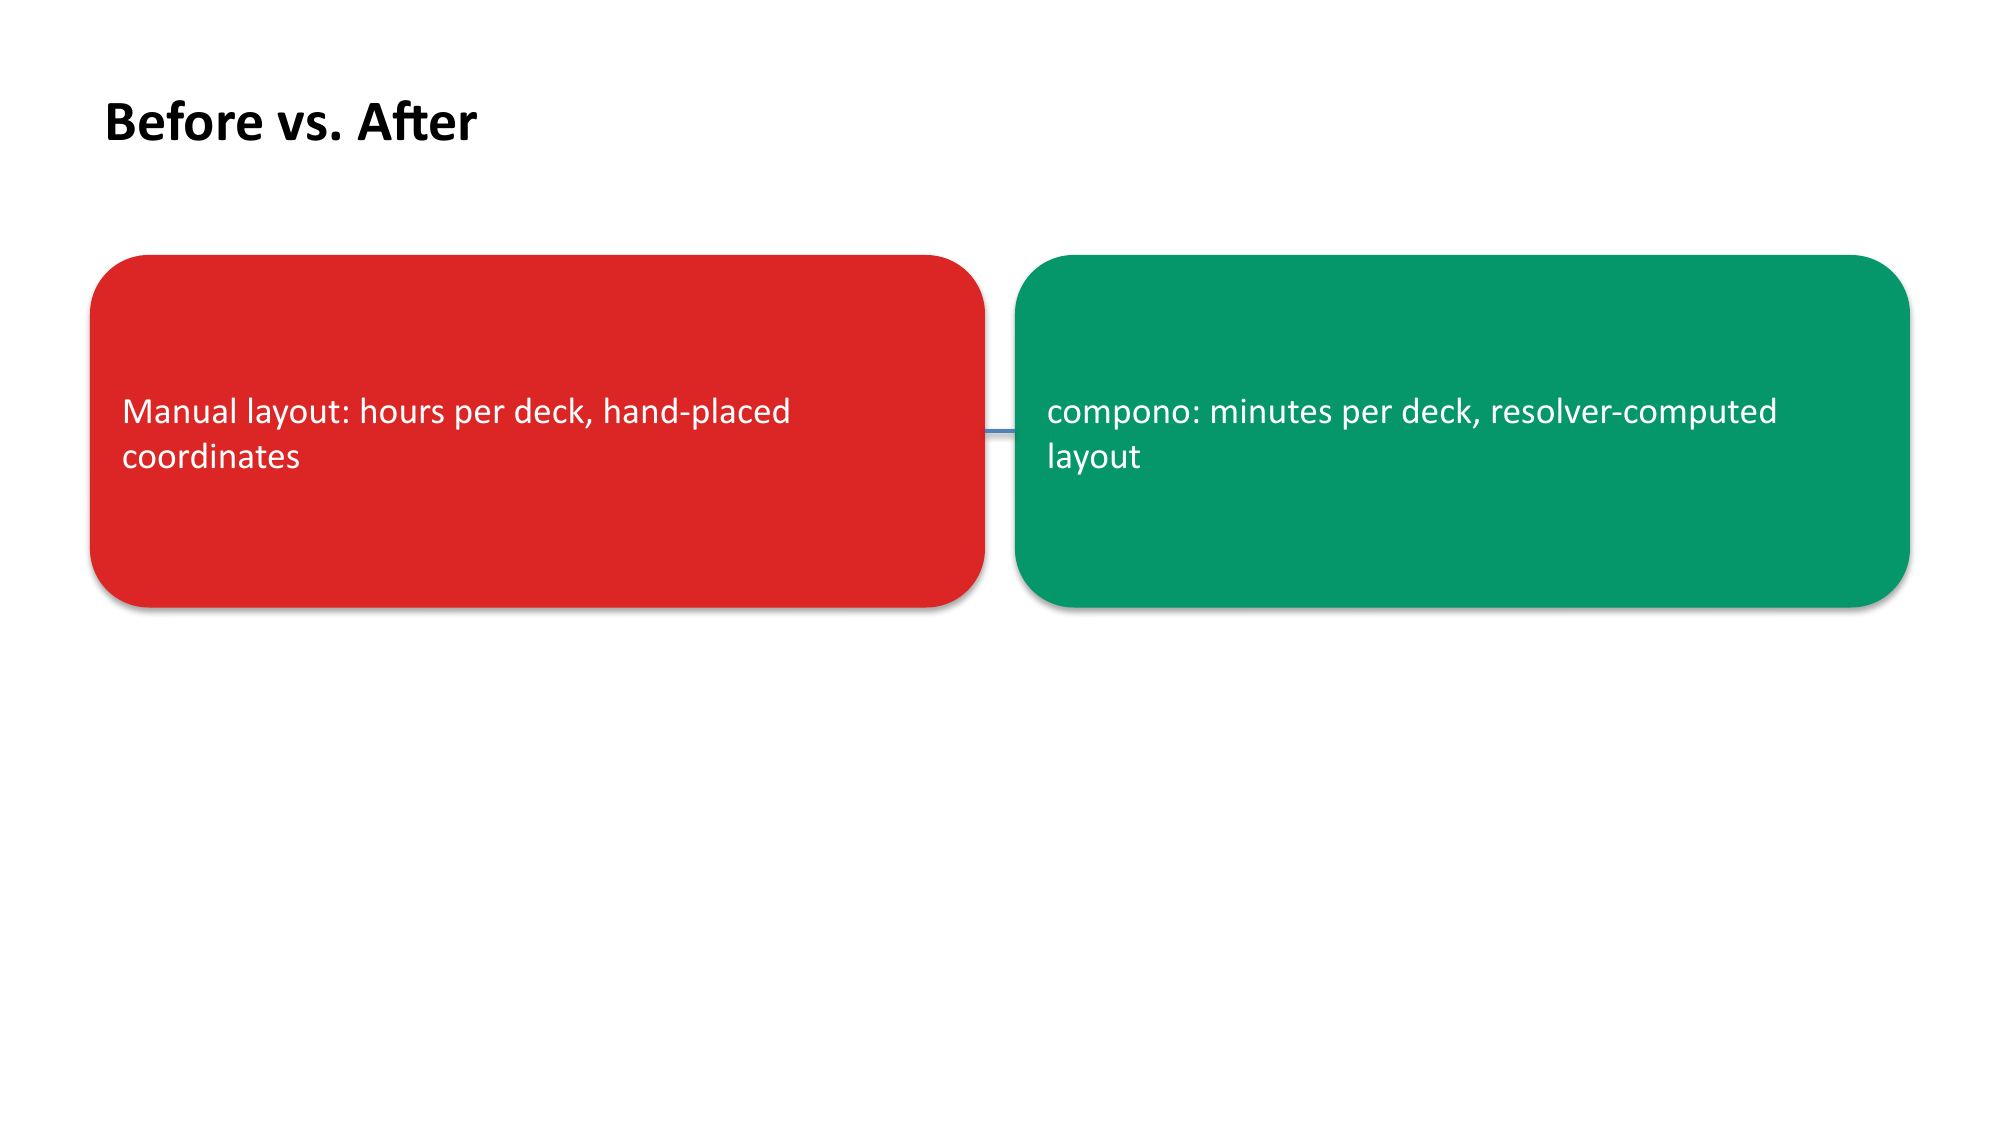
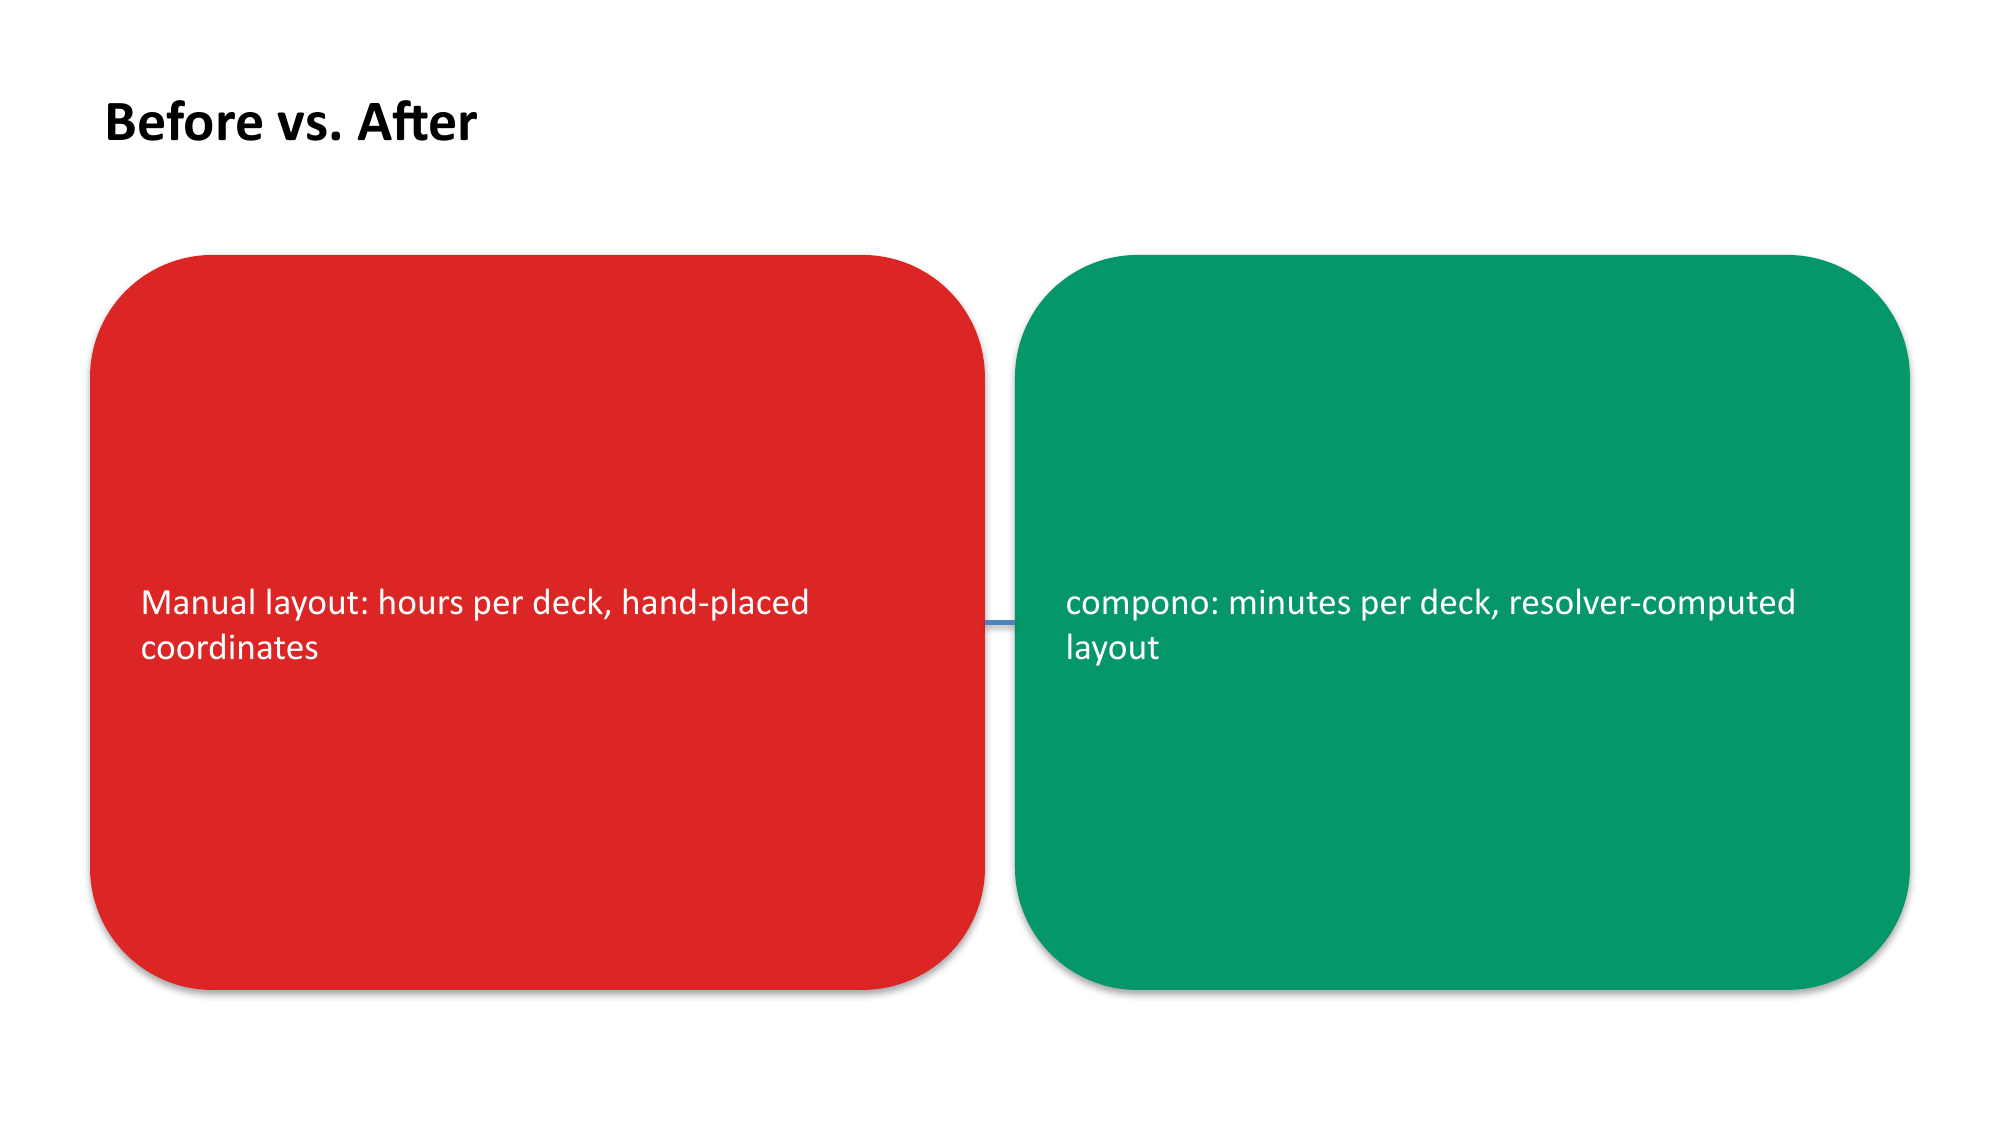
Add architecture_diagram.json; connectors no longer consume a layout slot
Building a 7-shape diagram surfaced another real resolver bug: connector
shapes were counted toward a body/grid's equal-height slot split even
though they render nothing at their own position (only layout.connectors,
computed from the *other* primitives they reference, gets drawn). With
several connectors as siblings, this could visibly starve real content of
space. resolver.py now filters connector shapes out of slot counting in
both _layout_stack and _layout_grid.

Adds examples/architecture_diagram.json: a layered system diagram (client
-> gateway -> services -> queue -> database) built entirely from shape +
connector, deliberately laid out so no connector's straight line crosses
an unrelated sibling (documented as a known limitation in CHANGELOG.md —
connectors have no obstacle avoidance yet).

README's "See it in action" gains this diagram as a dedicated example of
shape+connector composing into real diagrams, not just colored boxes.

diff --git a/src/compono/resolver.py b/src/compono/resolver.py
@@ -133,6 +133,14 @@ def resolve_slide(
     return result
 
 
+def _is_connector_shape(item: PrimitiveSpec) -> bool:
+    """A connector shape draws nothing at its own position — only
+    layout.connectors (computed from the *other* primitives it references)
+    gets rendered. It must never consume a body/grid slot's shared space.
+    """
+    return isinstance(item, Shape) and item.kind == "connector"
+
+
 def _layout_stack(
     items: list[PrimitiveSpec],
     rect: Rect,
@@ -141,13 +149,14 @@ def _layout_stack(
     prefix: str,
 ) -> None:
     """Lay out primitives top-to-bottom, sharing rect height equally (flex-equal fallback)."""
-    n = len(items)
+    real_items = [item for item in items if not _is_connector_shape(item)]
+    n = len(real_items)
     if n == 0:
         return
 
     slot_h = (rect.h - template.gutter * (n - 1)) // n if n > 1 else rect.h
     y = rect.y
-    for i, item in enumerate(items):
+    for i, item in enumerate(real_items):
         item_id = item.id or f"{prefix}[{i}]"
         item_rect = Rect(rect.x, y, rect.w, slot_h)
         _place_item(item, item_rect, template, result, item_id)
@@ -167,12 +176,12 @@ def _place_item(
         _layout_grid(item, rect, template, result, item_id)
 
 
-def _resolve_grid_columns(grid: Grid) -> int:
+def _resolve_grid_columns(grid: Grid, n: int) -> int:
     if grid.columns != "auto":
         return grid.columns
     if grid.direction == "column":
         return 1
-    return max(1, len(grid.items))
+    return max(1, n)
 
 
 def _layout_grid(
@@ -183,17 +192,18 @@ def _layout_grid(
     prefix: str,
 ) -> None:
     """True 2D layout: row/column count, gutter, equal-fr distribution (COMPONO_PLAN.md section 6)."""
-    n = len(grid.items)
+    real_items = [item for item in grid.items if not _is_connector_shape(item)]
+    n = len(real_items)
     if n == 0:
         return
 
-    columns = max(1, min(_resolve_grid_columns(grid), n))
+    columns = max(1, min(_resolve_grid_columns(grid, n), n))
     rows = math.ceil(n / columns)
 
     col_w = (rect.w - template.gutter * (columns - 1)) // columns
     row_h = (rect.h - template.gutter * (rows - 1)) // rows
 
-    for i, item in enumerate(grid.items):
+    for i, item in enumerate(real_items):
         r, c = divmod(i, columns)
         x = rect.x + c * (col_w + template.gutter)
         y = rect.y + r * (row_h + template.gutter)

diff --git a/tests/test_resolver.py b/tests/test_resolver.py
@@ -182,6 +182,31 @@ def test_connector_between_side_by_side_shapes_joins_vertical_edges(
     assert connector.end == (right.x, right.y + right.h // 2)
 
 
+def test_connector_shapes_do_not_consume_a_body_slot(template: Template) -> None:
+    """A connector draws nothing at its own position — only layout.connectors
+    (computed from the *other* primitives it references) gets rendered. Mixing
+    several connectors in with real body items must not shrink those items'
+    share of the available height, the way an extra real sibling would.
+    """
+    without_connectors = [Shape(id="a", kind="rect"), Shape(id="b", kind="rect")]
+    baseline = resolve_slide(template, body=without_connectors)
+
+    with_connectors = [
+        Shape(id="a", kind="rect"),
+        Shape(id="b", kind="rect"),
+        Shape(kind="connector", connects={"from_id": "a", "to_id": "b"}),
+        Shape(kind="connector", connects={"from_id": "a", "to_id": "b"}),
+        Shape(kind="connector", connects={"from_id": "a", "to_id": "b"}),
+    ]
+    result = resolve_slide(template, body=with_connectors)
+
+    # Adding 3 more connector siblings must not change "a"/"b"'s height at
+    # all — if connectors wrongly counted toward the slot split, 5 siblings
+    # would give each real item 2/5 the height instead of 1/2.
+    assert result.rects["a"].h == baseline.rects["a"].h
+    assert result.rects["b"].h == baseline.rects["b"].h
+
+
 def test_connector_unknown_id_raises(template: Template) -> None:
     body = [
         Shape(

diff --git a/CHANGELOG.md b/CHANGELOG.md
@@ -7,6 +7,32 @@ and this project adheres to [Semantic Versioning](https://semver.org/spec/v2.0.0
 
 ## [Unreleased]
 
+### Added
+- Genre-spanning example decks (`client_proposal`, `college_presentation`,
+  `conference_talk`, `research_talk`, `fun_explainer`,
+  `architecture_diagram`), each validated and rendered to real `.pptx` →
+  PNG screenshots embedded in the README.
+
+### Fixed
+- Image placeholder captions were nearly invisible on some renderers (no
+  explicit font color) — now explicitly gray.
+- Shape connectors joined rect *centers*, cutting straight across any text
+  centered in either shape. Now clipped to each rect's actual boundary
+  along the line between centers, for both the `sequence` primitive and
+  the general `shape.kind="connector"` case.
+- Connector shapes were incorrectly counted toward a body/grid's
+  equal-height slot split, even though they render nothing at their own
+  position — could visibly starve real siblings of space when a diagram
+  had several connectors. They're now excluded from slot counting
+  entirely.
+
+### Known limitations (new)
+- Connectors route as straight lines with no obstacle avoidance — if an
+  unrelated sibling sits directly between two connected primitives, the
+  line will cross through it. Lay out diagrams so connected primitives
+  don't have another primitive directly in between (see
+  `examples/architecture_diagram.json` for a layout that avoids this).
+
 ## [0.1.0] - 2026-09-12
 
 First tagged release: the full v1 primitive catalog, working end-to-end

diff --git a/README.md b/README.md
@@ -27,15 +27,21 @@ matching `examples/*.json` spec (`.pptx` → PNG via LibreOffice, see
 
 | Client proposal | Conference talk |
 |---|---|
-| ![KPI grid](assets/screenshots/client_proposal/slide-2.png) | ![Architecture diagram](assets/screenshots/conference_talk/slide-4.png) |
+| ![KPI grid](assets/screenshots/client_proposal/slide-2.png) | ![Planner/Executor architecture](assets/screenshots/conference_talk/slide-4.png) |
 
 | Research talk | Fun explainer |
 |---|---|
 | ![Loss curves](assets/screenshots/research_talk/slide-4.png) | ![Roast levels](assets/screenshots/fun_explainer/slide-3.png) |
 
+`shape` + `connector` compose into real diagrams, not just colored boxes —
+a layered system architecture, built entirely from `examples/architecture_diagram.json`:
+
+![Layered architecture: client → gateway → services → queue → database](assets/screenshots/architecture_diagram/slide-1.png)
+
 See `examples/` for the full specs (`client_proposal.json`,
 `conference_talk.json`, `research_talk.json`, `college_presentation.json`,
-`fun_explainer.json`, plus `minimal.json` and `full_catalog.json`).
+`fun_explainer.json`, `architecture_diagram.json`, plus `minimal.json` and
+`full_catalog.json`).
 
 ## Install
 
